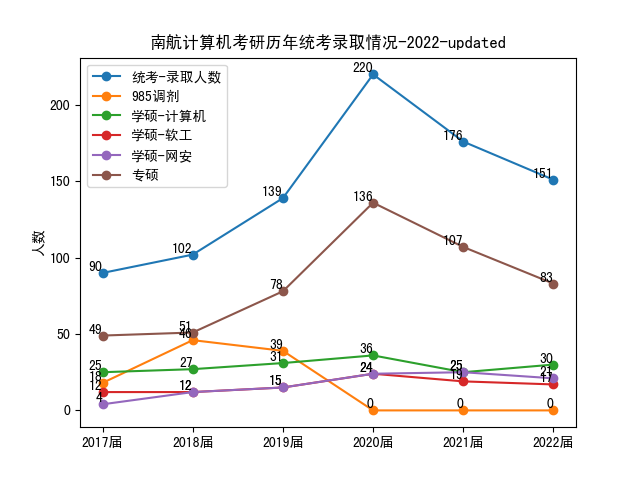
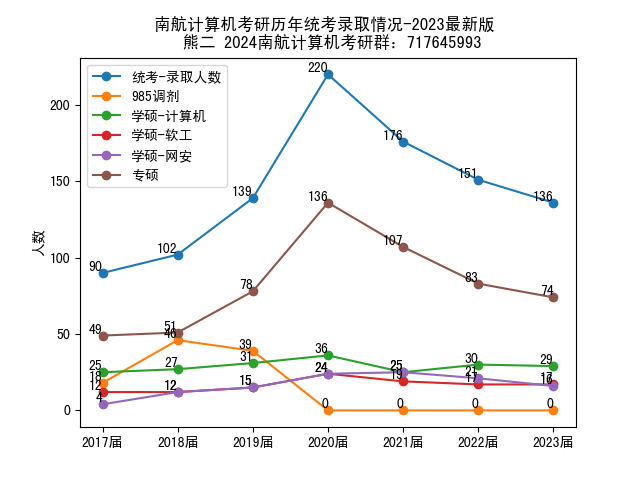
update

diff --git a/trend_plot.py b/trend_plot.py
@@ -15,15 +15,15 @@ plt.rcParams['axes.unicode_minus'] = False
 line_marker = '-o'
 
 
-x = [1, 2, 3, 4, 5, 6]
+x = [1, 2, 3, 4, 5, 6, 7]
 # data
-x_label = ["2017届", "2018届", "2019届", "2020届", "2021届", "2022届"]
-y_统考_录取人数 = [90, 102, 139, 220, 176, 151]
-y_985调剂_录取人数 = [18, 46, 39, 0, 0, 0]
-y_学硕_计算机_录取人数 = [25, 27, 31, 36, 25, 30]
-y_学硕_软工_录取人数 = [12, 12, 15, 24, 19, 17]
-y_学硕_网安_录取人数 = [4, 12, 15, 24, 25, 21]
-y_专硕_录取人数 = [49, 51, 78, 136, 107, 83]
+x_label = ["2017届", "2018届", "2019届", "2020届", "2021届", "2022届", "2023届"]
+y_统考_录取人数 = [90, 102, 139, 220, 176, 151, 136]
+y_985调剂_录取人数 = [18, 46, 39, 0, 0, 0, 0]
+y_学硕_计算机_录取人数 = [25, 27, 31, 36, 25, 30, 29]
+y_学硕_软工_录取人数 = [12, 12, 15, 24, 19, 17, 17]
+y_学硕_网安_录取人数 = [4, 12, 15, 24, 25, 21, 16]
+y_专硕_录取人数 = [49, 51, 78, 136, 107, 83, 74]
 
 y_list = [(y_统考_录取人数, "统考-录取人数"),
           (y_985调剂_录取人数, "985调剂"),
@@ -34,7 +34,7 @@ y_list = [(y_统考_录取人数, "统考-录取人数"),
 
 plt.xticks(x, x_label)
 plt.ylabel("人数")
-plt.title("南航计算机考研历年统考录取情况-2022-updated")
+plt.title("南航计算机考研历年统考录取情况-2023最新版 \n 熊二 2024南航计算机考研群：717645993")
 
 for y in y_list[:]:
     plt.plot(x, y[0], "-o", label=y[1])
